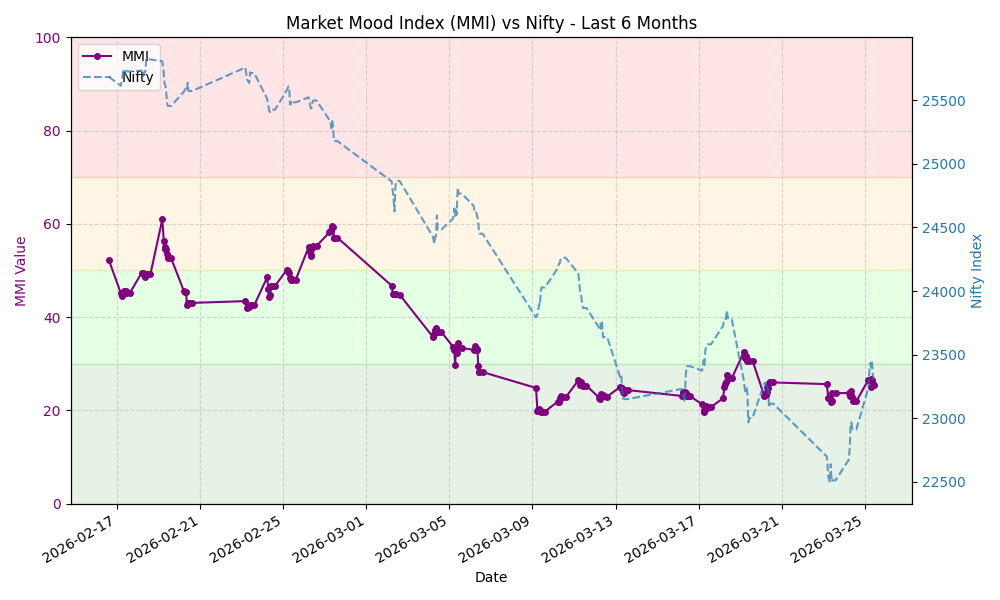
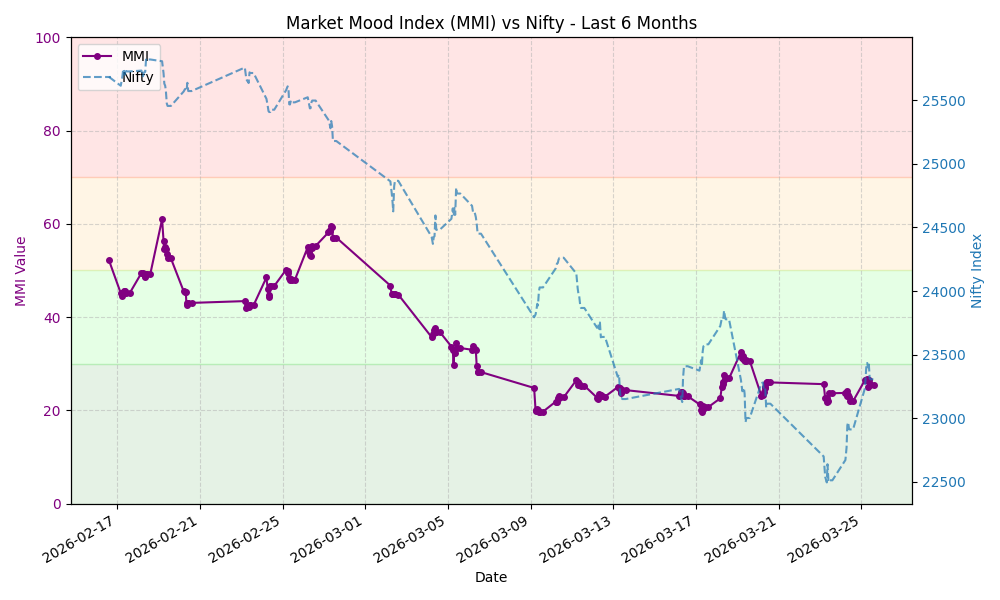
Update MMI data and chart

diff --git a/README.md b/README.md
@@ -8,7 +8,7 @@ This repository automatically fetches the MMI value, stores the history, and gen
 ## Latest MMI Value
 
 **25.53** - **Extreme Fear**
-<small>Last Updated: 2026-03-25 10:27 UTC</small>
+<small>Last Updated: 2026-03-25 14:20 UTC</small>
 
 ## MMI Trend (Last 30 Days)
 
